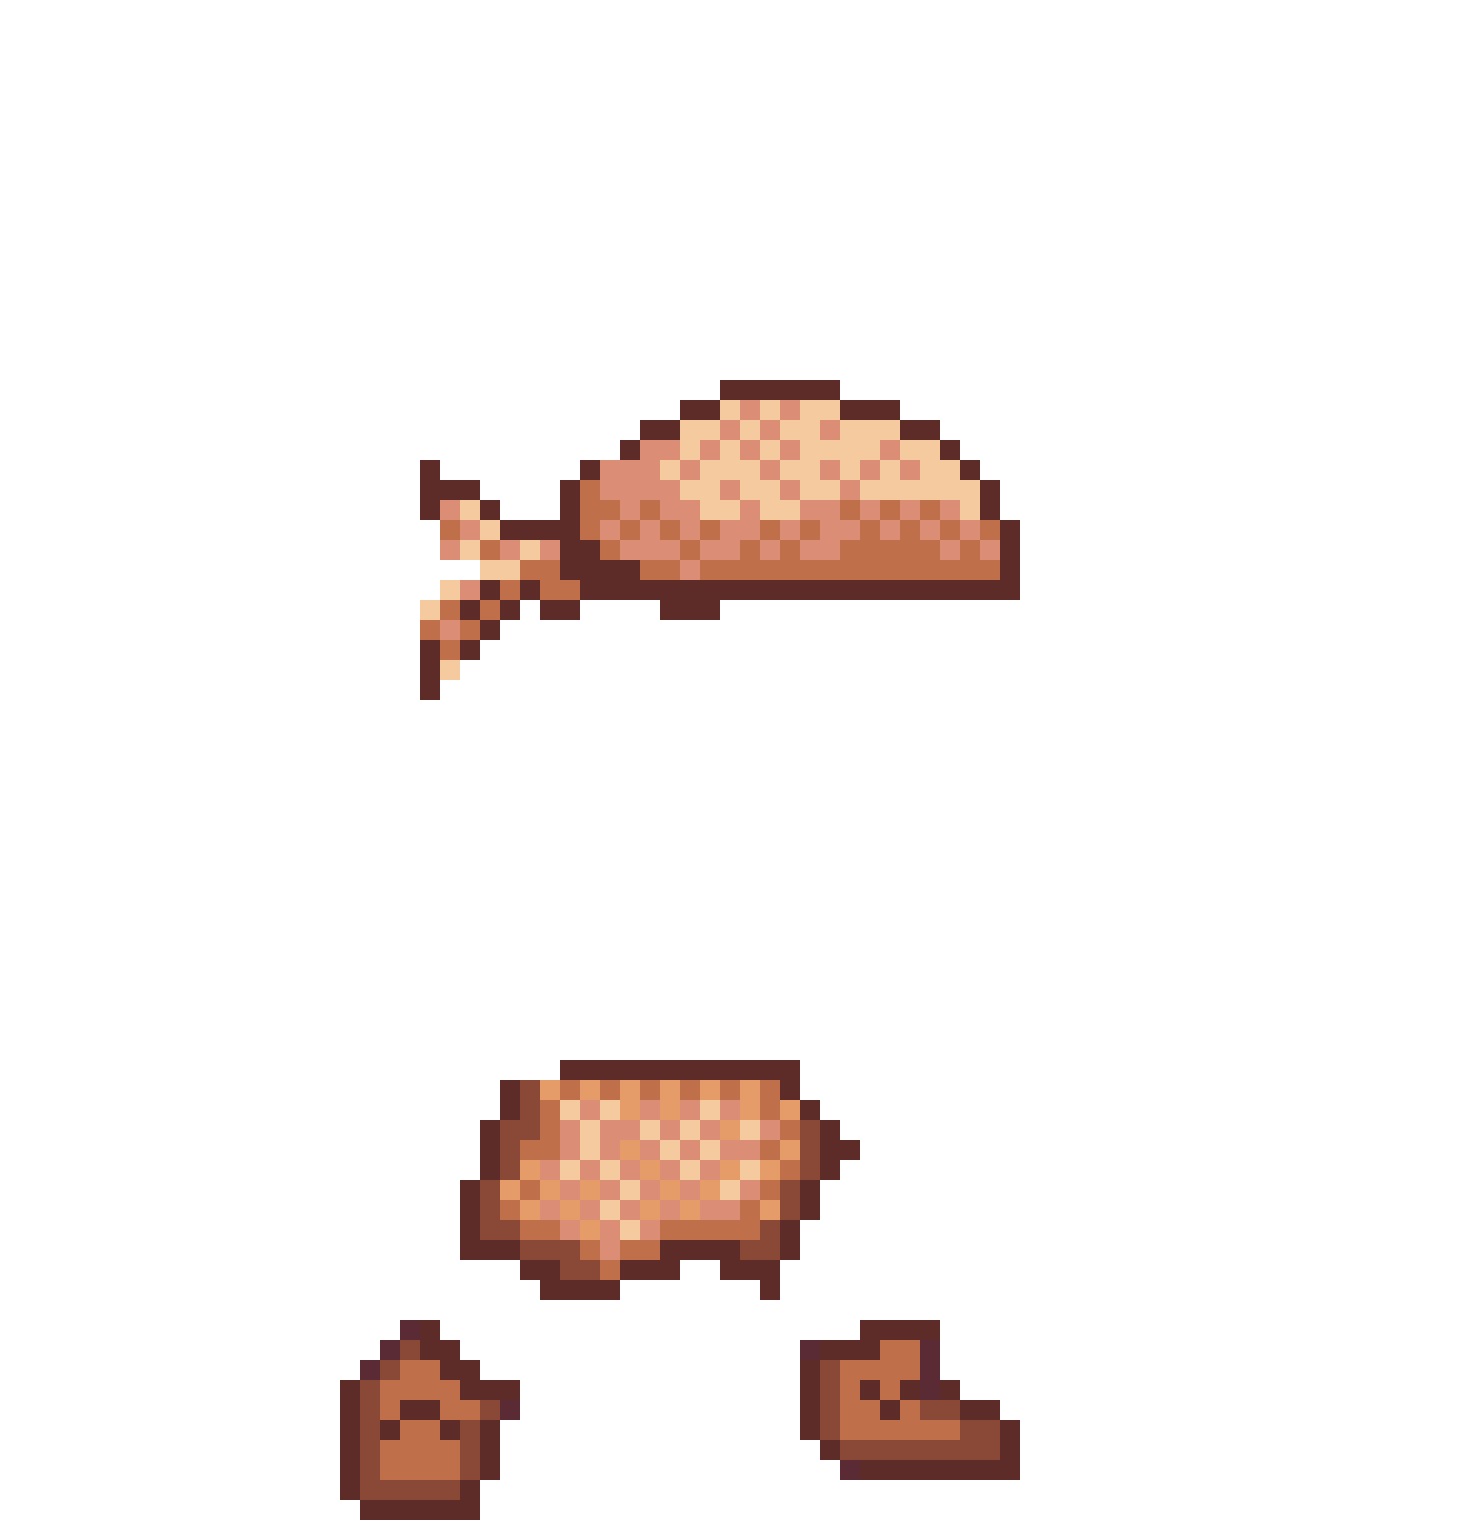
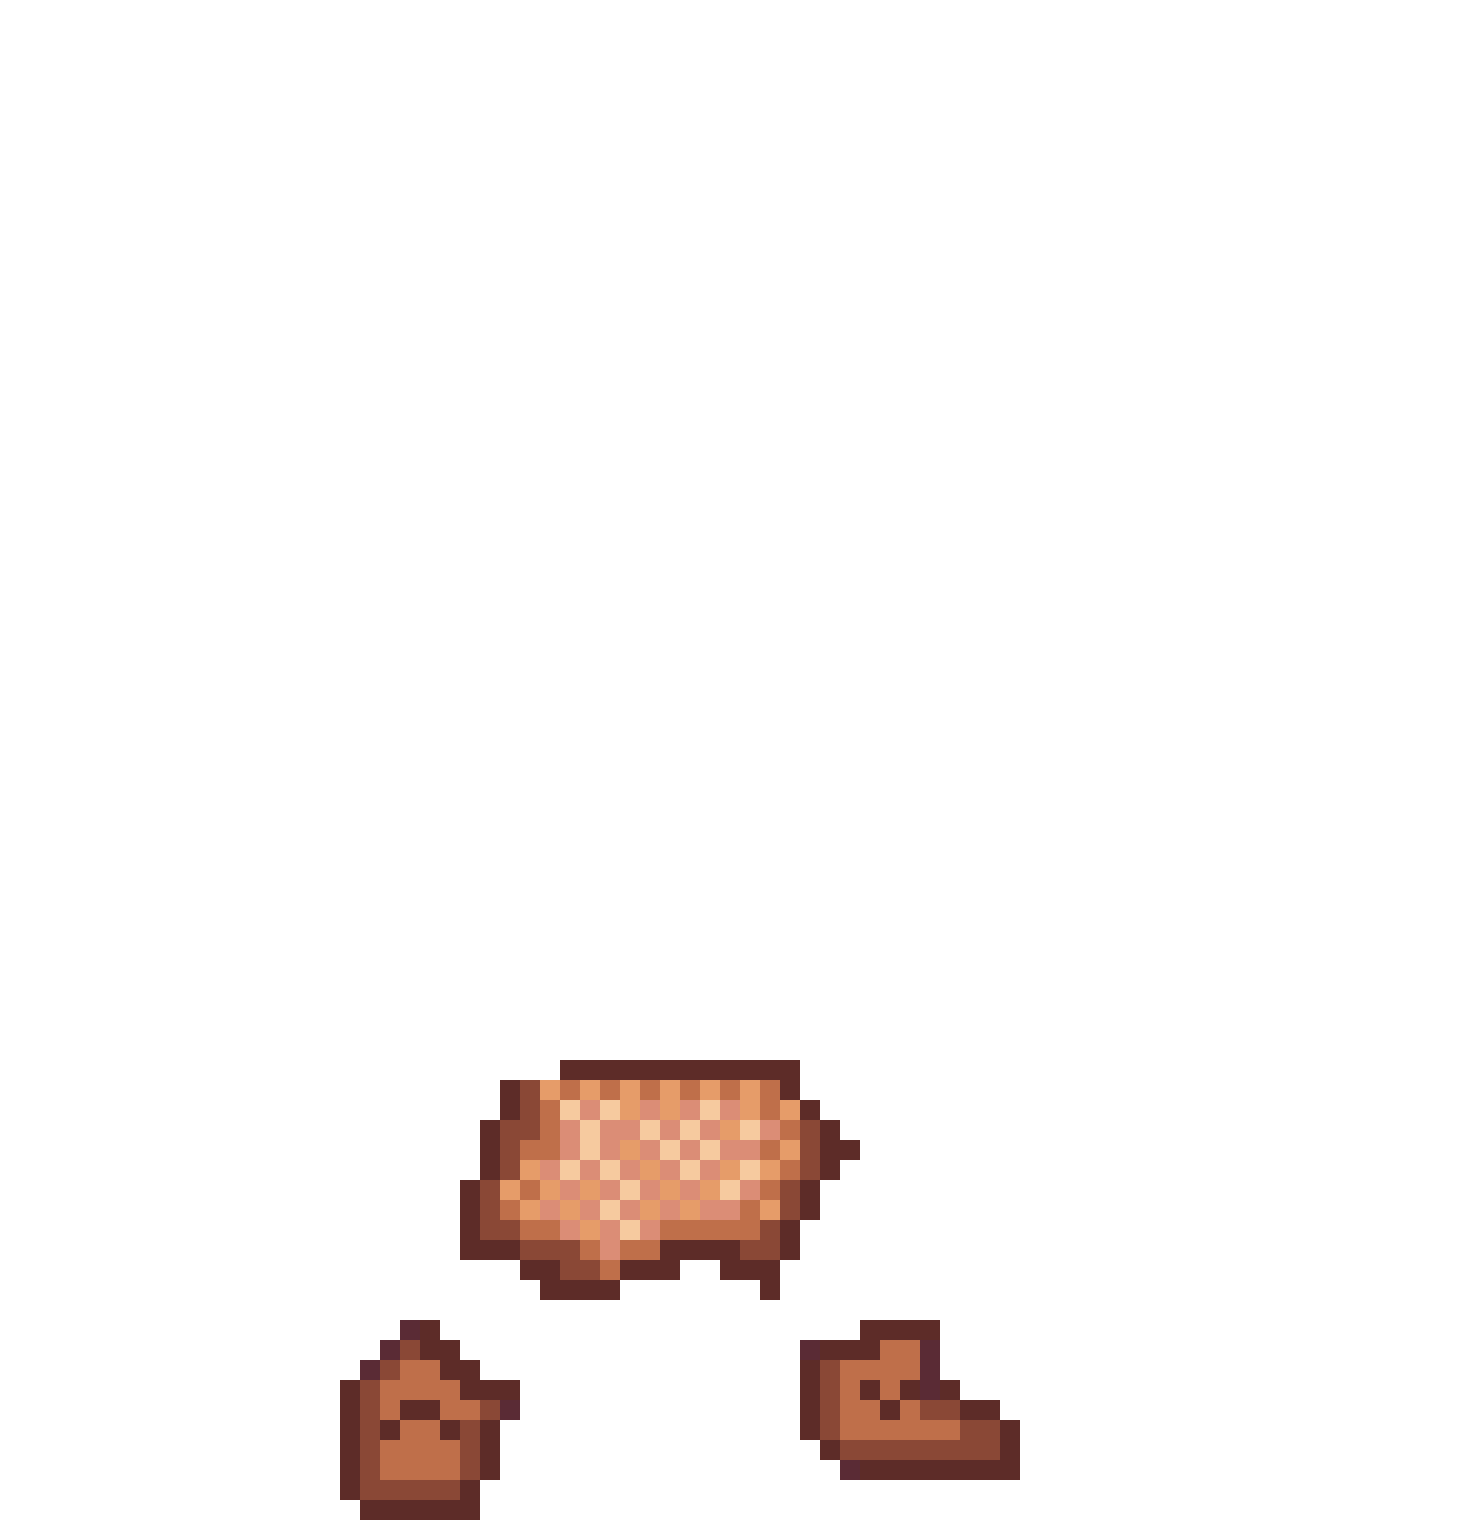
Fix bug with helmets, implement leather armor

Changed region(s): [[0.2774, 0.2474, 0.7089, 0.4638]]

diff --git a/src/components/mini-apps/IdleGame.jsx b/src/components/mini-apps/IdleGame.jsx
@@ -47,19 +47,20 @@ function getSwordArtVariant(inventory) {
         : { folder: "Human", variant: "Rusty" };
 }
 
-// Maps armor item names to their art set folder under /idle/Armor/.
-// All unlisted items fall back to "Rags".
+// Maps primary part names → art set folder under /idle/Armor/.
+// Matched against the primary part of the armor item (plate for chest/legs, shell for helm)
+// so prefixed items (e.g. "Reinforced Soldier's Breastplate") still resolve correctly.
 const ARMOR_ART_MAP = {
-    // chest
-    // "Iron Chestplate": "Iron",
-    // helm
-    // "Iron Helm": "Iron",
-    // legs
-    // "Iron Legguards": "Iron",
+    // Soldier's kit → Leather Armor
+    "Soldier's Breastplate": "Leather Armor",
+    "Soldier's Helm":        "Leather Armor",
+    "Soldier's Greaves":     "Leather Armor",
 };
 
-function getArmorSet(itemName) {
-    return ARMOR_ART_MAP[itemName] ?? "Rags";
+function getArmorSet(item) {
+    // Primary slot key: "plate" for chest/legs, "shell" for helm
+    const primaryName = item.parts?.plate?.name ?? item.parts?.shell?.name;
+    return ARMOR_ART_MAP[primaryName] ?? "Rags";
 }
 
 function calcAttacksPerSec(character) {
@@ -485,6 +486,7 @@ export default function IdleGame() {
     const [loading, setLoading] = useState(true);
     const [fetchError, setFetchError] = useState(null);
     const [screen, setScreen] = useState(null); // null | "map" | "inventory" | "log"
+    const [unviewedItems, setUnviewedItems] = useState(0);
     const [showSettings, setShowSettings] = useState(false);
     const [invFilterSlot, setInvFilterSlot] = useState("all");
     const [invFilterRarity, setInvFilterRarity] = useState("all");
@@ -748,7 +750,7 @@ export default function IdleGame() {
                         setEnemyDeathPause(false);
                         lastPlayerHitRef.current = performance.now();
                         lastEnemyHitRef.current = performance.now();
-                    }, 500);
+                    }, 1500);
                 } else {
                     setEnemyCurrentHp(visualEnemyHpRef.current);
                 }
@@ -877,6 +879,7 @@ export default function IdleGame() {
                         setTimeout(() => setRecentDrops([]), 4000);
                         for (const d of data.drops)
                             addLog(`Dropped: ${d.name}`);
+                        setUnviewedItems((n) => n + data.drops.length);
                     }
                     if (data.levelUps > 0)
                         addLog(
@@ -1033,6 +1036,7 @@ export default function IdleGame() {
         setSelectedItem(null);
         setPendingDiscardKey(null);
         setSwipedOpenKey(null);
+        if (name === "inventory") setUnviewedItems(0);
     }
 
     // ── Render states ──
@@ -1110,15 +1114,12 @@ export default function IdleGame() {
     const equippedItems = character.inventory.filter((i) => i.equipped);
     const unequippedItems = character.inventory.filter((i) => !i.equipped);
     const swordArt = getSwordArtVariant(character.inventory);
-    const armorLegs = equippedItems.find((i) => i.type === "legs")
-        ? getArmorSet(equippedItems.find((i) => i.type === "legs").name)
-        : null;
-    const armorChest = equippedItems.find((i) => i.type === "chest")
-        ? getArmorSet(equippedItems.find((i) => i.type === "chest").name)
-        : null;
-    const armorHelm = equippedItems.find((i) => i.type === "helm")
-        ? getArmorSet(equippedItems.find((i) => i.type === "helm").name)
-        : null;
+    const _legsItem  = equippedItems.find((i) => i.type === "legs");
+    const _chestItem = equippedItems.find((i) => i.type === "chest");
+    const _helmItem  = equippedItems.find((i) => i.type === "helm");
+    const armorLegs  = _legsItem  ? getArmorSet(_legsItem)  : null;
+    const armorChest = _chestItem ? getArmorSet(_chestItem) : null;
+    const armorHelm  = _helmItem  ? getArmorSet(_helmItem)  : null;
 
     const selectedSlot = panelItem ? getItemSlot(panelItem) : null;
     const equippedInSlot = selectedSlot
@@ -1350,10 +1351,7 @@ export default function IdleGame() {
                                                                             25
                                                                           ? "#facc15"
                                                                           : "#f87171",
-                                                                transitionDuration:
-                                                                    !playerIsAlive
-                                                                        ? "1000ms"
-                                                                        : `${Math.round(1000 / (selectedEnemy.attackSpeed ?? 1))}ms`,
+                                                                transitionDuration: !playerIsAlive ? "1000ms" : "150ms",
                                                             }}
                                                         />
                                                     </div>
@@ -1417,29 +1415,6 @@ export default function IdleGame() {
                                                         />
                                                     )}
                                                     <img
-                                                        src="/idle/Character/Male/Head_1.png"
-                                                        width={146}
-                                                        height={152}
-                                                        className="absolute top-0 left-0"
-                                                        alt=""
-                                                    />
-                                                    {armorHelm && (
-                                                        <img
-                                                            src={`/idle/Armor/${armorHelm}/Head_${armorHelm}_1.png`}
-                                                            width={146}
-                                                            height={152}
-                                                            className="absolute top-0 left-0"
-                                                            alt=""
-                                                        />
-                                                    )}
-                                                    <img
-                                                        src="/idle/Character/Male/Hair/Hair_sprite_1.png"
-                                                        width={146}
-                                                        height={152}
-                                                        className="absolute top-0 left-0"
-                                                        alt=""
-                                                    />
-                                                    <img
                                                         src="/idle/Character/Male/Chest_1.png"
                                                         width={146}
                                                         height={152}
@@ -1455,6 +1430,9 @@ export default function IdleGame() {
                                                             alt=""
                                                         />
                                                     )}
+                                                    <img src="/idle/Character/Male/Head_1.png" width={146} height={152} className="absolute top-0 left-0" alt="" />
+                                                    {armorHelm && <img src={`/idle/Armor/${armorHelm}/Head_${armorHelm}_1.png`} width={146} height={152} className="absolute top-0 left-0" alt="" />}
+                                                    {!armorHelm && <img src="/idle/Character/Male/Hair/Hair_sprite_1.png" width={146} height={152} className="absolute top-0 left-0" alt="" />}
                                                     {swordArt && (
                                                         <img
                                                             src={`/idle/Weapons/Swords/Hilts/${swordArt.folder}/${swordArt.variant} Hilt.png`}
@@ -1558,7 +1536,7 @@ export default function IdleGame() {
                                                                 className="h-full rounded-full bg-red-400 transition-all"
                                                                 style={{
                                                                     width: `${pct}%`,
-                                                                    transitionDuration: `${Math.round(1000 / calcAttacksPerSec(character))}ms`,
+                                                                    transitionDuration: "150ms",
                                                                 }}
                                                             />
                                                         </div>
@@ -2866,7 +2844,14 @@ export default function IdleGame() {
                                 : "opacity-40 hover:opacity-70"
                         }`}
                     >
-                        <IconBag />
+                        <div className="relative">
+                            <IconBag />
+                            {unviewedItems > 0 && (
+                                <span className="absolute -top-1 -right-1 min-w-[14px] h-[14px] px-0.5 rounded-full bg-red-500 text-white text-[9px] font-bold flex items-center justify-center leading-none">
+                                    {unviewedItems > 99 ? "99+" : unviewedItems}
+                                </span>
+                            )}
+                        </div>
                         <span className="text-xs font-medium">Inventory</span>
                     </button>
                     <button
